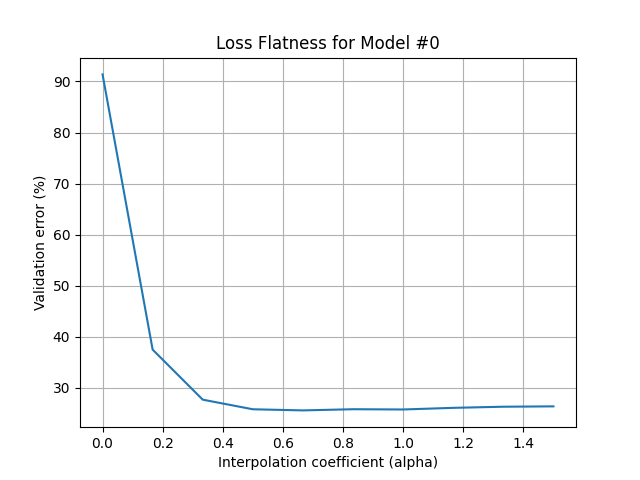
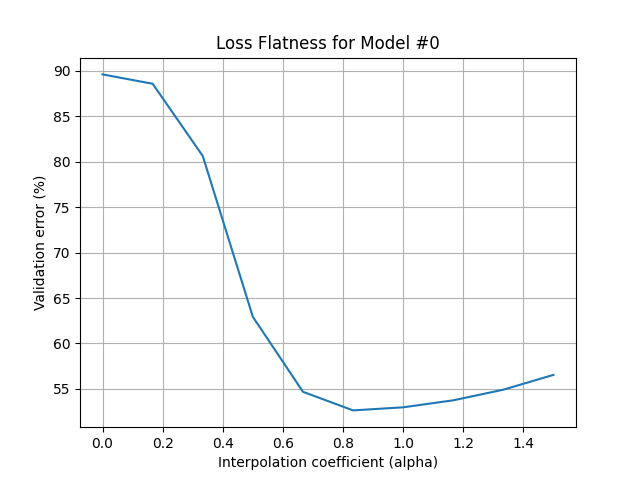
tried cifar-100 and noisy fashion mnist

diff --git a/main.py b/main.py
@@ -1,17 +1,22 @@
 import torch
 from torch import optim
 from NeuralNetwork import NeuralNetwork
-from data_utils import get_fashion_mnist_loaders
+from data_utils import (
+    get_fashion_mnist_loaders,
+    get_cifar100_loaders,
+    get_noisy_fashion_mnist_loaders,
+)
 import torch.nn.functional as F
 import os
 import matplotlib.pyplot as plt
 from FracGrad import FractionalSGD
 import argparse
 
-DATA_DIR = 'data/'
-PLOTS_DIR = 'plots/'
+DATA_DIR = "data/"
+PLOTS_DIR = "plots/"
 os.makedirs(DATA_DIR, exist_ok=True)
 os.makedirs(PLOTS_DIR, exist_ok=True)
+
 
 def train(model, train_loader, optimizer, device):
     model.train()
@@ -22,6 +27,7 @@ def train(model, train_loader, optimizer, device):
         loss = model.compute_loss(outputs, labels)
         model.backward_step(loss)
         optimizer.step()
+
 
 def test(model, test_loader, device):
     model.eval()
@@ -37,6 +43,7 @@ def test(model, test_loader, device):
     accuracy = 100 * correct / total
     return accuracy
 
+
 def validation(model, device, validation_loader, quiet=False):
     model.eval()
     validation_loss = 0
@@ -51,23 +58,30 @@ def validation(model, device, validation_loader, quiet=False):
 
     validation_loss /= len(validation_loader.dataset)
     if not quiet:
-        print("\nValidation set: Average loss: {:.4f}, Accuracy: {}/{} ({:.0f}%)\n".format(
-            validation_loss,
-            correct,
-            len(validation_loader.dataset),
-            100.0 * correct / len(validation_loader.dataset),
-        ))
+        print(
+            "\nValidation set: Average loss: {:.4f}, Accuracy: {}/{} ({:.0f}%)\n".format(
+                validation_loss,
+                correct,
+                len(validation_loader.dataset),
+                100.0 * correct / len(validation_loader.dataset),
+            )
+        )
 
     return 100.0 * correct / len(validation_loader.dataset)
 
-def plot_flatness(model, test_loader, device, initial_params, final_params, model_id, flag):
+
+def plot_flatness(
+    model, test_loader, device, initial_params, final_params, model_id, flag
+):
     v_err = []
     alpha_v = []
     model.to(device)
     for alpha in torch.linspace(0, 1.5, steps=10):
         alpha = alpha.to(device)
         for name, param in model.named_parameters():
-            param.data = (1.0 - alpha) * initial_params[name].data + alpha * final_params[name].data
+            param.data = (1.0 - alpha) * initial_params[
+                name
+            ].data + alpha * final_params[name].data
         v_err.append(100.0 - validation(model, device, test_loader, quiet=True))
         alpha_v.append(alpha.to("cpu"))
         print(f" alpha = {alpha:.2f} has validation error {v_err[-1]:.2f}%")
@@ -78,14 +92,21 @@ def plot_flatness(model, test_loader, device, initial_params, final_params, mode
     plt.title(f"Loss Flatness for Model #{model_id}")
     plt.grid(True)
     if flag:
-        plt.savefig(os.path.join(PLOTS_DIR, f"flatness_plot_fractional_model_{model_id}.png"))
+        plt.savefig(
+            os.path.join(PLOTS_DIR, f"flatness_plot_fractional_model_{model_id}.png")
+        )
     else:
         plt.savefig(os.path.join(PLOTS_DIR, f"flatness_plot_model_{model_id}.png"))
     plt.close()
 
-if __name__ == '__main__':
+
+if __name__ == "__main__":
     parser = argparse.ArgumentParser()
-    parser.add_argument('--use-fractional', action='store_true', help='Use FractionalSGD instead of standard SGD')
+    parser.add_argument(
+        "--use-fractional",
+        action="store_true",
+        help="Use FractionalSGD instead of standard SGD",
+    )
     args = parser.parse_args()
     device = torch.device("cuda" if torch.cuda.is_available() else "cpu")
     for seed in range(3):
@@ -93,9 +114,10 @@ if __name__ == '__main__':
             print(f"Training fractional model #{seed}")
         else:
             print(f"Training vanilla model #{seed}")
-        
 
-        train_loader, test_loader = get_fashion_mnist_loaders(data_dir=DATA_DIR, seed=seed)
+        train_loader, test_loader = get_noisy_fashion_mnist_loaders(
+            data_dir=DATA_DIR, seed=seed
+        )
         model = NeuralNetwork().to(device)
         flag = False
         if args.use_fractional:
@@ -105,15 +127,27 @@ if __name__ == '__main__':
             optimizer = optim.SGD(model.parameters(), lr=0.01)
 
         # Save initial parameters
-        initial_params = {name: param.clone().detach() for name, param in model.named_parameters()}
+        initial_params = {
+            name: param.clone().detach() for name, param in model.named_parameters()
+        }
 
         train(model, train_loader, optimizer, device)
 
         # Save final parameters
-        final_params = {name: param.clone().detach() for name, param in model.named_parameters()}
+        final_params = {
+            name: param.clone().detach() for name, param in model.named_parameters()
+        }
 
         acc = test(model, test_loader, device)
         print(f"Model #{seed} test accuracy: {acc:.2f}%")
 
         # Plot flatness
-        plot_flatness(model, test_loader, device, initial_params, final_params, model_id=seed, flag=flag)
+        plot_flatness(
+            model,
+            test_loader,
+            device,
+            initial_params,
+            final_params,
+            model_id=seed,
+            flag=flag,
+        )

diff --git a/data_utils.py b/data_utils.py
@@ -1,7 +1,8 @@
 import torch
 from torchvision import datasets, transforms
-from torch.utils.data import DataLoader
+from torch.utils.data import DataLoader, Subset
 import os
+import random
 
 
 def get_fashion_mnist_loaders(data_dir="data/", batch_size=64, seed=42):
@@ -22,6 +23,83 @@ def get_fashion_mnist_loaders(data_dir="data/", batch_size=64, seed=42):
 
     # Create data loaders
     train_loader = DataLoader(train_dataset, batch_size=batch_size, shuffle=True)
+    test_loader = DataLoader(test_dataset, batch_size=batch_size, shuffle=False)
+
+    return train_loader, test_loader
+
+
+def get_cifar100_loaders(data_dir="data/", batch_size=64, seed=42):
+    torch.manual_seed(seed)
+
+    transform = transforms.Compose(
+        [
+            transforms.ToTensor(),
+            transforms.Normalize(
+                mean=[0.5071, 0.4867, 0.4408], std=[0.2675, 0.2565, 0.2761]
+            ),
+        ]
+    )
+
+    os.makedirs(data_dir, exist_ok=True)
+
+    # Training dataset
+    train_dataset = datasets.CIFAR100(
+        root=data_dir, train=True, download=True, transform=transform
+    )
+
+    # Test dataset
+    test_dataset = datasets.CIFAR100(
+        root=data_dir, train=False, download=True, transform=transform
+    )
+
+    # Create data loaders
+    train_loader = DataLoader(train_dataset, batch_size=batch_size, shuffle=True)
+    test_loader = DataLoader(test_dataset, batch_size=batch_size, shuffle=False)
+
+    return train_loader, test_loader
+
+
+def get_noisy_fashion_mnist_loaders(
+    data_dir="data/", batch_size=64, seed=42, subset_ratio=0.1, noise_ratio=0.2
+):
+    torch.manual_seed(seed)
+    random.seed(seed)
+
+    transform = transforms.ToTensor()
+    os.makedirs(data_dir, exist_ok=True)
+
+    # Load full training dataset
+    full_train_dataset = datasets.FashionMNIST(
+        root=data_dir, train=True, download=True, transform=transform
+    )
+
+    # Subsample 10% of the data
+    num_total = len(full_train_dataset)
+    num_subset = int(subset_ratio * num_total)
+    subset_indices = random.sample(range(num_total), num_subset)
+    subset_dataset = Subset(full_train_dataset, subset_indices)
+
+    # Inject label noise into 20% of subset
+    noisy_targets = full_train_dataset.targets[subset_indices].clone()
+    num_noisy = int(noise_ratio * num_subset)
+    noisy_indices = random.sample(range(num_subset), num_noisy)
+    for idx in noisy_indices:
+        true_label = noisy_targets[idx].item()
+        new_label = random.choice([l for l in range(10) if l != true_label])
+        noisy_targets[idx] = new_label
+
+    # Manually override targets in subset
+    subset_dataset.dataset.targets = full_train_dataset.targets.clone()
+    for i, subset_idx in enumerate(subset_indices):
+        subset_dataset.dataset.targets[subset_idx] = noisy_targets[i]
+
+    # Test dataset (clean)
+    test_dataset = datasets.FashionMNIST(
+        root=data_dir, train=False, download=True, transform=transform
+    )
+
+    # Create data loaders
+    train_loader = DataLoader(subset_dataset, batch_size=batch_size, shuffle=True)
     test_loader = DataLoader(test_dataset, batch_size=batch_size, shuffle=False)
 
     return train_loader, test_loader

diff --git a/NeuralNetwork.py b/NeuralNetwork.py
@@ -2,8 +2,9 @@ import torch
 import torch.nn as nn
 import torch.nn.functional as F
 
+
 class NeuralNetwork(nn.Module):
-    def __init__(self, input_dim=784, hidden_dim=512, output_dim=10):
+    def __init__(self, input_dim=28 * 28, hidden_dim=256, output_dim=10):
         super(NeuralNetwork, self).__init__()
         self.fc1 = nn.Linear(input_dim, hidden_dim)
         self.fc2 = nn.Linear(hidden_dim, hidden_dim)
